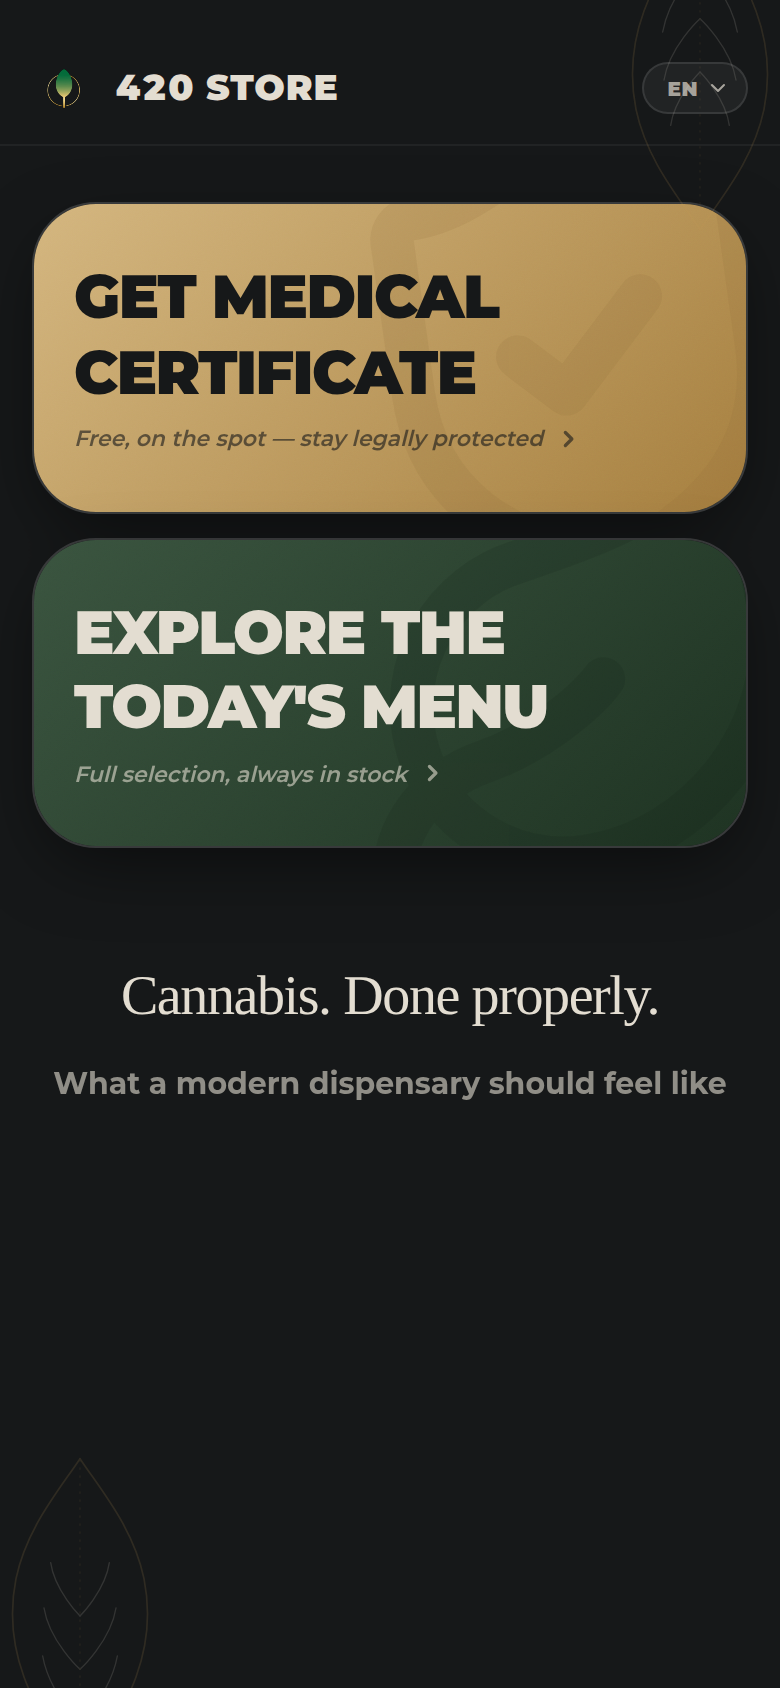
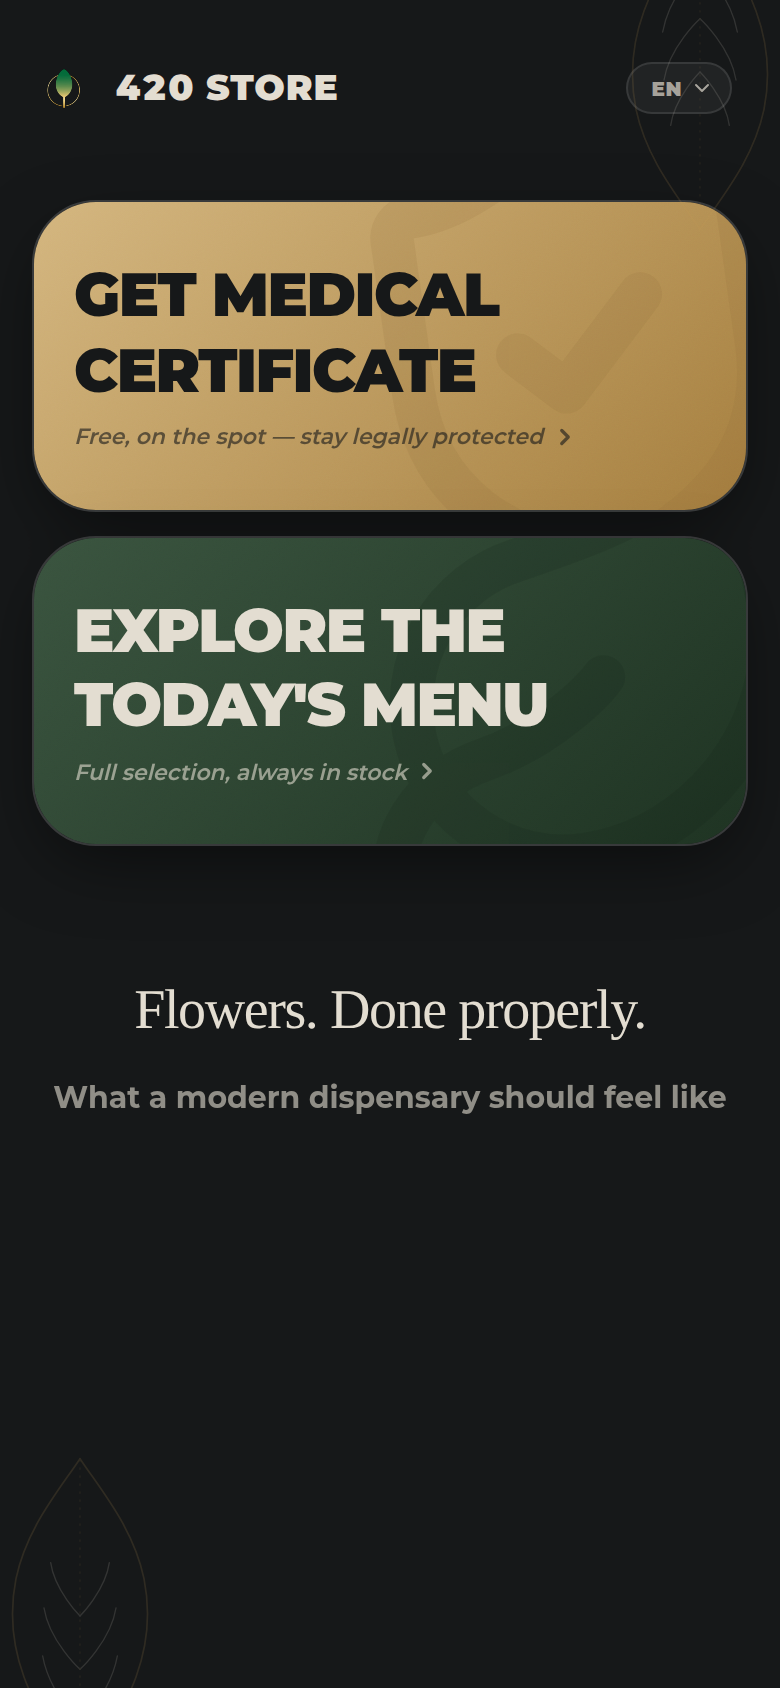
Fix the consultation dialog on desktop, and take the review's copy changes (#62)
* Centre the consultation dialog on desktop, and drop the gold from strainless products

Two unrelated fixes to the same catalogue/dialog surface.

The consultation dialog resolved its breakpoint one render late: isDesktop
started false, so on a desktop viewport framer-motion mounted the element with
the mobile sheet's initial (y: 100%) and then switched animate to the desktop
variant, which names only opacity and scale. Nothing ever animated y back to 0,
so the dialog sat a full height below centre — half off the bottom of the
screen on desktop and tablet, correct on mobile because there the offset is
what the sheet wants. The media query is now read on the first client render,
and the desktop variant names y so crossing the breakpoint mid-open clears the
offset too.

A product's type line took the brand gold whenever it had no strain — that is,
on every accessory. Gold there names nothing, and it is the colour the Sale tag
beside it uses, so one row could carry two gold words meaning different things.
strainAccentFor returns null for those, and the label falls back to the
ordinary body colour; the card glow and sheet lighting keep the gold, which is
lighting rather than a claim about the product.

* Rewrite the partners headline, soften the homepage tagline, name the categories in Thai

Three copy changes agreed in review.

The partners H1 said what the shop does with the system ("the system you run
[…]

diff --git a/src/components/cards/ProductCards.tsx b/src/components/cards/ProductCards.tsx
@@ -2,7 +2,7 @@
 import * as React from "react"
 import Image from "next/image"
 import { Plus, Tag, Zap } from "lucide-react"
-import { triggerHaptic, accentFor } from "@/lib/utils"
+import { triggerHaptic, accentFor, strainAccentFor } from "@/lib/utils"
 import { entryPrice } from "@/lib/pricing"
 import { TranslationDictionary } from "@/lib/translations"
 
@@ -76,6 +76,9 @@ export const HighlightCard = React.memo(({ item, onClick, priority, sizes = GRID
   if (!item) return null;
 
   const accentColor = accentFor(item);
+  // The glow keeps the gold fallback — it is the card's lighting. The word
+  // under it does not: see strainAccentFor.
+  const strainColor = strainAccentFor(item);
 
   const { price: currentPrice, listPrice, discounted } = entryPrice(item);
 
@@ -138,7 +141,10 @@ export const HighlightCard = React.memo(({ item, onClick, priority, sizes = GRID
               {statusLabel}
             </span>
           ) : null}
-          <span className="text-[11px] font-black uppercase tracking-normal brightness-125 leading-none truncate" style={{ color: accentColor }}>
+          <span
+            className={`text-[11px] font-black uppercase tracking-normal brightness-125 leading-none truncate ${strainColor ? '' : 'text-brand-light/70'}`}
+            style={strainColor ? { color: strainColor } : undefined}
+          >
             {item.type}
           </span>
         </span>
@@ -167,6 +173,7 @@ export const ProductRow = React.memo(({ p, onClick, t }: { p: any, onClick: () =
   if (!p) return null;
 
   const { price: displayPrice, listPrice: rowListPrice, discounted: rowDiscounted } = entryPrice(p);
+  const strainColor = strainAccentFor(p);
 
   return (
     <button
@@ -201,7 +208,10 @@ export const ProductRow = React.memo(({ p, onClick, t }: { p: any, onClick: () =
           {p.name}
         </span>
         <span className="flex items-center gap-2 mt-0.5 min-w-0">
-          <span className="text-[11px] font-black uppercase tracking-normal truncate" style={{ color: accentFor(p) }}>
+          <span
+            className={`text-[11px] font-black uppercase tracking-normal truncate ${strainColor ? '' : 'text-brand-light/70'}`}
+            style={strainColor ? { color: strainColor } : undefined}
+          >
             {p.type}
           </span>
           {p.badge === 'NEW' && <StatusTag label={t.tagNew} kind="new" />}

diff --git a/src/lib/translations.ts b/src/lib/translations.ts
@@ -9,6 +9,13 @@ export interface TranslationDictionary {
   // Header & Navigation
   updates: string;
   sales: string;
+  // The three category names, used for the menu's tabs, its section headings
+  // and the category label on a showcase card — one word per category, so the
+  // tab and the card never disagree. English and Russian both keep "Buds" and
+  // "Joints": those are the words the shop itself uses on its shelves, and a
+  // Russian customer reads them faster than a translation would be read.
+  buds: string;
+  joints: string;
   accessories: string;
   menuTitle: string;
   /** Accessible name of the header's destination chip and of the panel it opens. */
@@ -60,7 +67,7 @@ export interface TranslationDictionary {
   // Home page
   heroDoorCertLine: string;
   heroDoorMenuLine: string;
-  // "Cannabis. Done properly." is hardcoded in English across all locales
+  // "Flowers. Done properly." is hardcoded in English across all locales
   // (not translated) — see HomeClient. Hero card titles ("Get Medical
   // Certificate" / "Explore The Today's Menu") are hardcoded the same way.
   addressLabel: string;
@@ -87,6 +94,8 @@ export const translations: Record<Language, TranslationDictionary> = {
     // Header & Navigation
     updates: "New",
     sales: "Sales",
+    buds: "Buds",
+    joints: "Joints",
     accessories: "Accessories",
     menuTitle: "Menu",
     navLabel: "Sections",
@@ -157,6 +166,8 @@ export const translations: Record<Language, TranslationDictionary> = {
     // Header & Navigation
     updates: "Новинки",
     sales: "Распродажа",
+    buds: "Buds",
+    joints: "Joints",
     accessories: "Аксессуары",
     menuTitle: "Меню",
     navLabel: "Разделы",
@@ -227,6 +238,11 @@ export const translations: Record<Language, TranslationDictionary> = {
     // Header & Navigation
     updates: "มาใหม่",
     sales: "ลดราคา",
+    // The words a Thai dispensary prints on its own menu: the flower itself,
+    // and the loanword for a pre-roll, which is what the counter says out loud
+    // rather than the more literal กัญชามวน.
+    buds: "ดอกกัญชา",
+    joints: "พรีโรล",
     accessories: "อุปกรณ์เสริม",
     menuTitle: "เมนู",
     navLabel: "หมวดหมู่",

diff --git a/src/lib/partners/translations.ts b/src/lib/partners/translations.ts
@@ -4,6 +4,10 @@ import type { Language } from "@/lib/translations"
 // shop owners. Kept separate from the public-site dictionary in
 // @/lib/translations since none of these keys are shared with buds.digital.
 export interface PartnersDictionary {
+  // Says what the system does for the shop, not what the shop does with the
+  // system. This page's job is to earn a demo click, and a promise of benefit
+  // does that better than a promise of reliability — which answers an
+  // objection and belongs further down, beside the PT.33 claim.
   heroTitle: string;
   // The USP line reads as a row of pills under the H1. heroPillAccent is the
   // single highlighted one and carries the urgency claim that used to sit in a
@@ -35,7 +39,7 @@ export interface PartnersDictionary {
 
 export const partnersTranslations: Record<Language, PartnersDictionary> = {
   ru: {
-    heroTitle: "Не просто сайт. Система, с которой вы работаете",
+    heroTitle: "Не просто сайт. Система, которая работает на вас",
     heroPills: [
       "Учёт PT.33",
       "Цифровое меню",
@@ -55,7 +59,7 @@ export const partnersTranslations: Record<Language, PartnersDictionary> = {
     ctaButton: "Написать в WhatsApp",
   },
   en: {
-    heroTitle: "Not just a website. The system you run on",
+    heroTitle: "Not just a website. A system that works for you",
     heroPills: [
       "PT.33 records",
       "Digital menu",
@@ -75,7 +79,7 @@ export const partnersTranslations: Record<Language, PartnersDictionary> = {
     ctaButton: "Message on WhatsApp",
   },
   th: {
-    heroTitle: "ไม่ใช่แค่เว็บไซต์ แต่คือระบบที่คุณใช้ขับเคลื่อนธุรกิจ",
+    heroTitle: "ไม่ใช่แค่เว็บไซต์ แต่คือระบบที่ทำงานให้คุณ",
     heroPills: [
       "ทะเบียน PT.33",
       "เมนูดิจิทัล",

diff --git a/src/components/modals/Consultation.tsx b/src/components/modals/Consultation.tsx
@@ -15,7 +15,15 @@ interface ConsultationProps {
 
 export const Consultation = ({ t, onClose }: ConsultationProps) => {
   const [isClosing, setIsClosing] = React.useState(false);
-  const [isDesktop, setIsDesktop] = React.useState(false);
+  // Resolved on the first client render, not one render later. Starting at
+  // `false` on a desktop viewport mounted the motion element with the mobile
+  // sheet's `initial` (y: 100%) and then switched `animate` to the desktop
+  // variant, which only names opacity and scale — so nothing ever animated y
+  // back to 0 and the dialog sat one full height below centre, half off the
+  // bottom of the screen. Only mobile got away with it.
+  const [isDesktop, setIsDesktop] = React.useState(
+    () => typeof window !== "undefined" && window.matchMedia("(min-width: 640px)").matches
+  );
   // True on the very first client render, not one render later. The dialog is
   // only ever mounted from client state (never during hydration), so there is
   // no markup to mismatch — and waiting a render would have the focus trap set
@@ -68,7 +76,10 @@ export const Consultation = ({ t, onClose }: ConsultationProps) => {
             if (info.offset.y > 100) handleClose();
           }}
           initial={isDesktop ? { opacity: 0, scale: 0.95 } : { y: "100%" }}
-          animate={isDesktop ? { opacity: isClosing ? 0 : 1, scale: isClosing ? 0.95 : 1 } : { y: isClosing ? "100%" : 0 }}
+          // The desktop variant names y as well, so a viewport crossing the
+          // breakpoint while the dialog is open drops the sheet's offset
+          // instead of keeping it as a stuck transform.
+          animate={isDesktop ? { opacity: isClosing ? 0 : 1, scale: isClosing ? 0.95 : 1, y: 0 } : { y: isClosing ? "100%" : 0 }}
           transition={isDesktop ? { type: "spring", damping: 28, stiffness: 340 } : { type: "spring", damping: 30, stiffness: 300 }}
           className="relative w-full bg-brand-primary sm:rounded-modal rounded-t-modal max-h-[90dvh] sm:max-h-[85vh] flex flex-col overflow-hidden"
         >

diff --git a/src/components/partners/DeviceMockup.tsx b/src/components/partners/DeviceMockup.tsx
@@ -3,16 +3,16 @@ import * as React from "react"
 import Image from "next/image"
 import { motion } from "framer-motion"
 
-// Composited screenshot of buds.digital (header + hero cards + the
-// "Cannabis. Done properly." tagline), assembled from the live homepage
-// and padded out to a true iPhone 13/14 screen ratio of 390x844. Recapture
-// and swap the PNG in public/images/partners/customer-view.png whenever
-// the live design changes. The composite is built with its own tight,
-// deliberate spacing (not a 1:1 crop of the live page's natural spacing)
-// and its header/tagline pieces are cropped clear of the source page's
-// hairline borders — those read as stray hard edges once tilted and
-// vignetted inside the small rotated mockup, so they're kept out of the
-// composite rather than papered over with CSS.
+// Composited screenshot of buds.digital (header + hero cards + the homepage
+// tagline), captured at a true iPhone 13/14 screen ratio of 390x844 at 2x.
+// Recapture and swap the PNG in public/images/partners/customer-view.png
+// whenever the homepage's top changes — scripts/capture-customer-view.mjs
+// does it, and says there what it stages before it shoots. The composite is
+// a poster of the page rather than a plain capture of it: the sections below
+// the tagline are dropped, the tagline is pulled up under the cards, and the
+// header's hairline and nav button are taken out — those read as stray hard
+// edges once tilted and vignetted inside the small rotated mockup, so they
+// are kept out of the composite rather than papered over with CSS.
 //
 // The frame keeps its full, realistic iPhone proportions, but only the
 // content-dense top of it is revealed — the empty lower screen and

diff --git a/src/components/modals/Product.tsx b/src/components/modals/Product.tsx
@@ -5,7 +5,7 @@ import { motion, useDragControls } from "framer-motion"
 import { X, ShoppingBag } from "lucide-react"
 import { useCart } from "@/lib/cart-store"
 import { Language, TranslationDictionary } from "@/lib/translations"
-import { triggerHaptic, Baht } from "@/lib/utils"
+import { triggerHaptic, Baht, strainAccentFor } from "@/lib/utils"
 import { priceFor, savingFor } from "@/lib/pricing"
 import { useModalA11y } from "@/lib/use-modal-a11y"
 import { QuantityPicker } from "./QuantityPicker"
@@ -53,6 +53,9 @@ export const Product = ({
 
   const safeLang = (lang || 'en') as Language;
   const accentColor = style?.color || '#10B981';
+  // The sheet's lighting stays on the accent; the chip naming the strain drops
+  // to the ordinary text colour when there is no strain to name.
+  const strainColor = strainAccentFor(product);
 
   const handleClose = React.useCallback(() => {
     triggerHaptic('light');
@@ -189,8 +192,8 @@ export const Product = ({
           </div>
 
           <span
-            className="text-[11px] font-black uppercase tracking-wide px-3 py-1 rounded-full border mb-3"
-            style={{ borderColor: `${accentColor}50`, color: accentColor, backgroundColor: `${accentColor}10` }}
+            className={`text-[11px] font-black uppercase tracking-wide px-3 py-1 rounded-full border mb-3 ${strainColor ? '' : 'border-white/15 bg-white/[0.04] text-brand-light/70'}`}
+            style={strainColor ? { borderColor: `${strainColor}50`, color: strainColor, backgroundColor: `${strainColor}10` } : undefined}
           >
             {product.type || product.category}
           </span>

diff --git a/src/lib/utils.tsx b/src/lib/utils.tsx
@@ -26,8 +26,17 @@ export const TYPE_COLORS: Record<string, string> = {
 // the list, gold on its card and green in its own modal.
 // Anything with no strain — accessories — takes the brand gold.
 export const accentFor = (product: any): string => {
+  return strainAccentFor(product) || GOLDEN_COLOR;
+};
+
+// The same decision for text rather than light: null when the product has no
+// strain, so an accessory's kind ("Grinder", "Papers") is set in the ordinary
+// body colour instead of the brand gold. Gold on that line was doing no work —
+// it names no strain — and it is the colour the Sale tag beside it uses, so two
+// unrelated words came out the same colour on one row.
+export const strainAccentFor = (product: any): string | null => {
   const type = String(product?.type || "").toLowerCase().trim();
-  return TYPE_COLORS[type] || GOLDEN_COLOR;
+  return TYPE_COLORS[type] || null;
 };
 
 export const triggerHaptic = (type: 'light' | 'medium' | 'heavy' | 'success' | 'warning' = 'light') => {

diff --git a/src/components/HomeClient.tsx b/src/components/HomeClient.tsx
@@ -138,7 +138,7 @@ export default function HomeClient() {
           <section className="py-8 lg:py-14 text-center space-y-3">
             {/* Hardcoded in English across all locales — not translated (see item 7). */}
             <p className="font-serif text-[28px] sm:text-[36px] lg:text-[44px] text-brand-light leading-snug tracking-tight">
-              Cannabis. Done properly.
+              Flowers. Done properly.
             </p>
             <p className="text-[15px] sm:text-[17px] font-bold text-brand-light/60">
               {t.aboutLead}

diff --git a/src/components/catalog/ProductGrid.tsx b/src/components/catalog/ProductGrid.tsx
@@ -13,12 +13,12 @@ interface CategoryConfig {
 export function getCategoryConfig(category: string, t: TranslationDictionary): CategoryConfig {
   const configs: Record<string, CategoryConfig> = {
     buds: {
-      title: "Buds",
+      title: t.buds,
       icon: <Leaf size={20} className="text-brand-secondary" />,
       layout: "list",
     },
     joints: {
-      title: "Joints",
+      title: t.joints,
       icon: <Cigarette size={20} className="text-brand-secondary" />,
       layout: "list",
     },
